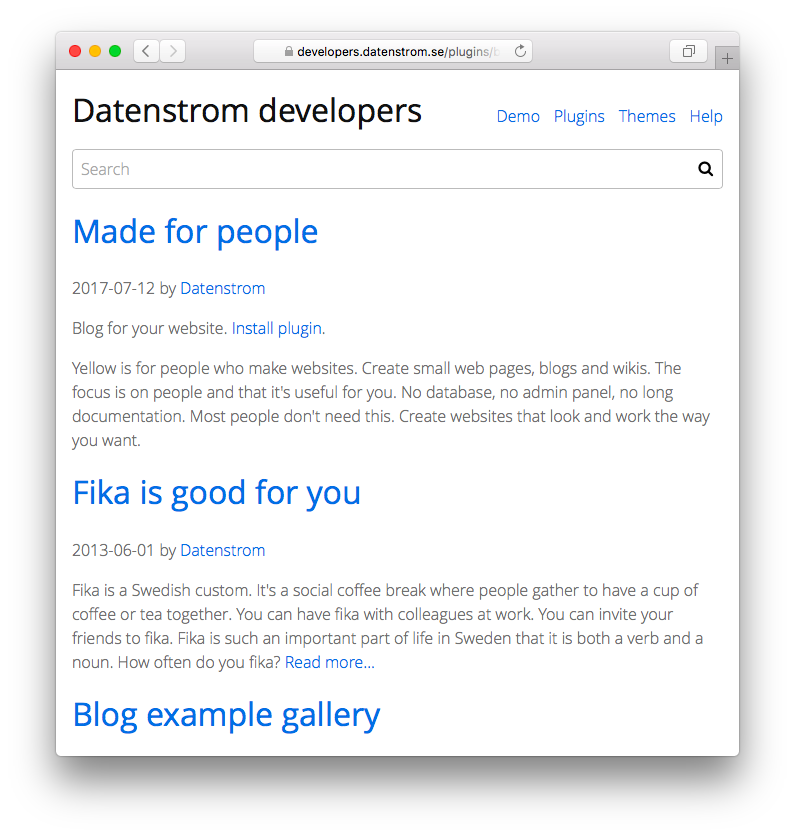
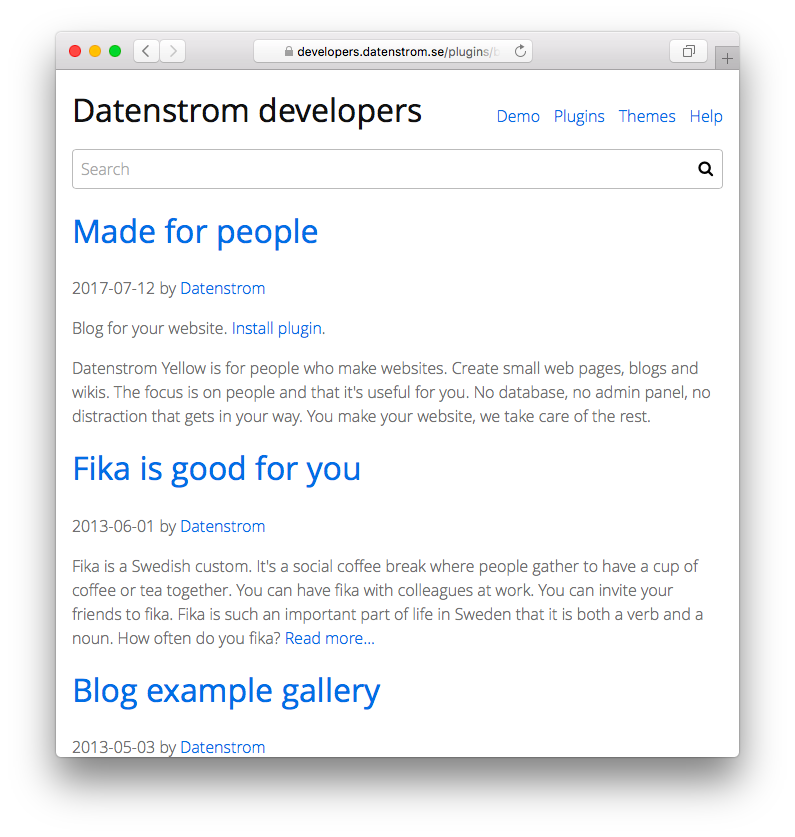
Documentation update

diff --git a/README.md b/README.md
@@ -2,7 +2,7 @@ Datenstrom Yellow plugins
 =========================
 [![Datenstrom Yellow](https://raw.githubusercontent.com/datenstrom/yellow-developers/master/media/images/datenstrom-yellow-en.jpg)](https://datenstrom.se/yellow/)
 
-Yellow is for people who make websites. [See demo](https://developers.datenstrom.se/plugins/).
+Datenstrom Yellow is for people who make websites. [See demo](https://developers.datenstrom.se/plugins/).
 
 1. [Download all plugins and unzip them](https://github.com/datenstrom/yellow-plugins/archive/master.zip).  
 2. Copy relevant files to your web hosting.  
